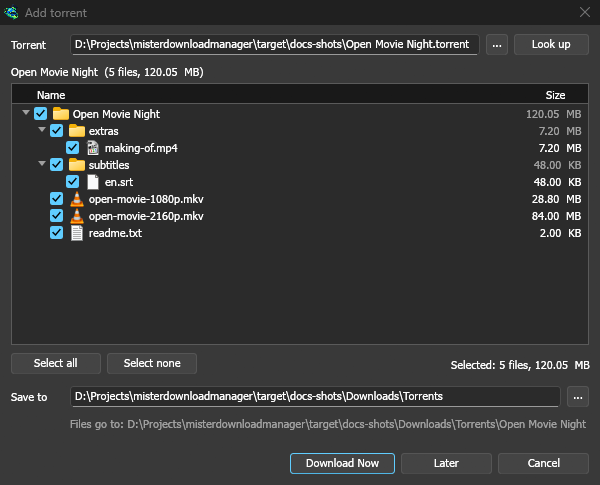
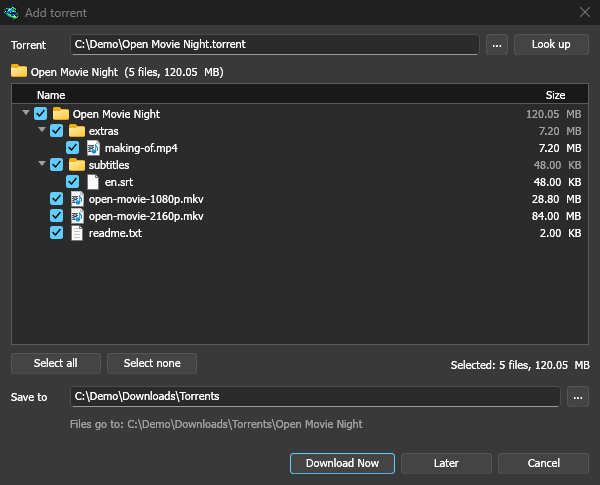
Docs screenshots from a stock Windows, taken on GitHub's runner (#129)

diff --git a/crates/app/src/main.rs b/crates/app/src/main.rs
@@ -81,6 +81,20 @@ pub fn offscreen() -> bool {
     *ON.get_or_init(|| std::env::var_os("MDM_OFFSCREEN").is_some_and(|v| v == "1"))
 }
 
+/// Where [`offscreen`] puts the main window: far off the screens, or at `MDM_OFFSCREEN_AT=x,y`.
+/// That is for a machine whose screen nobody watches (the docs screenshots on GitHub's runner,
+/// .github/workflows/docs-shots.yml): there the software OpenGL (Mesa's llvmpipe) presents
+/// through GDI, which draws nothing off the screens.
+fn offscreen_at() -> [f32; 2] {
+    std::env::var("MDM_OFFSCREEN_AT")
+        .ok()
+        .and_then(|v| {
+            let (x, y) = v.split_once(',')?;
+            Some([x.trim().parse().ok()?, y.trim().parse().ok()?])
+        })
+        .unwrap_or([-20000.0, -20000.0])
+}
+
 /// A window's builder as [`offscreen`] wants it; unchanged otherwise. Dialogs open centred on
 /// the main window, so they are off the screens with it.
 pub fn quiet(builder: egui::ViewportBuilder) -> egui::ViewportBuilder {
@@ -225,7 +239,7 @@ fn app() -> eframe::Result {
         viewport = viewport.with_position([x as f32, y as f32]);
     }
     if offscreen() {
-        viewport = viewport.with_position([-20000.0, -20000.0]);
+        viewport = viewport.with_position(offscreen_at());
     }
     let opts = eframe::NativeOptions {
         viewport,

diff --git a/ROADMAP.md b/ROADMAP.md
@@ -94,6 +94,8 @@ Everything below ships together, in one release.
   inside their list, with their place in it ([#102](https://github.com/anefzaoui/misterdownloadmanager/issues/102));
   the Categories pane, the menu bar and every right-click menu too, with Shift+F10 and the Menu key
   ([#113](https://github.com/anefzaoui/misterdownloadmanager/issues/113))
+- ✅ The README's, the docs' and the website's screenshots are taken on a stock Windows (GitHub's
+  runner), so the file icons in them are Windows' own
 - ✅ Website in European Portuguese, and an [intended use](https://misterdownloadmanager.com/intended-use.html) page
 - ✅ Website: the [free IDM alternative](https://misterdownloadmanager.com/idm-alternative.html) page compares
   MDM with IDM and with nine other free download managers, each checked on its own site, with
